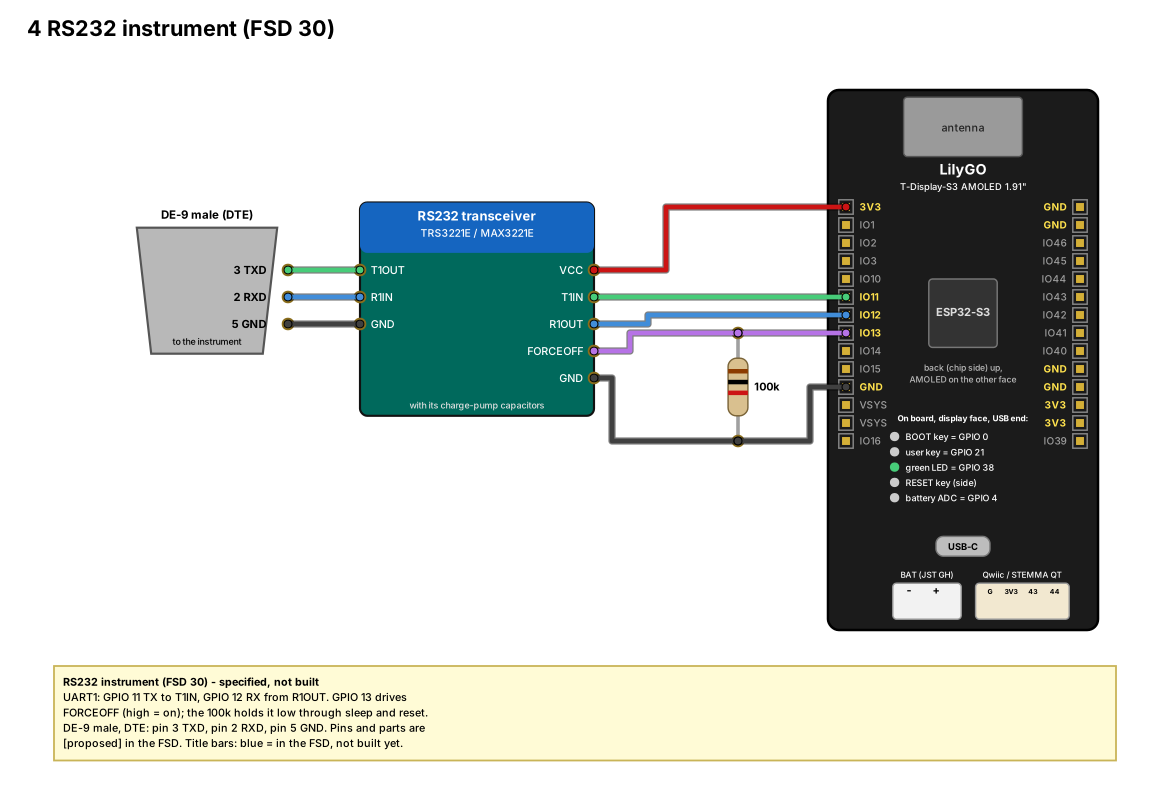
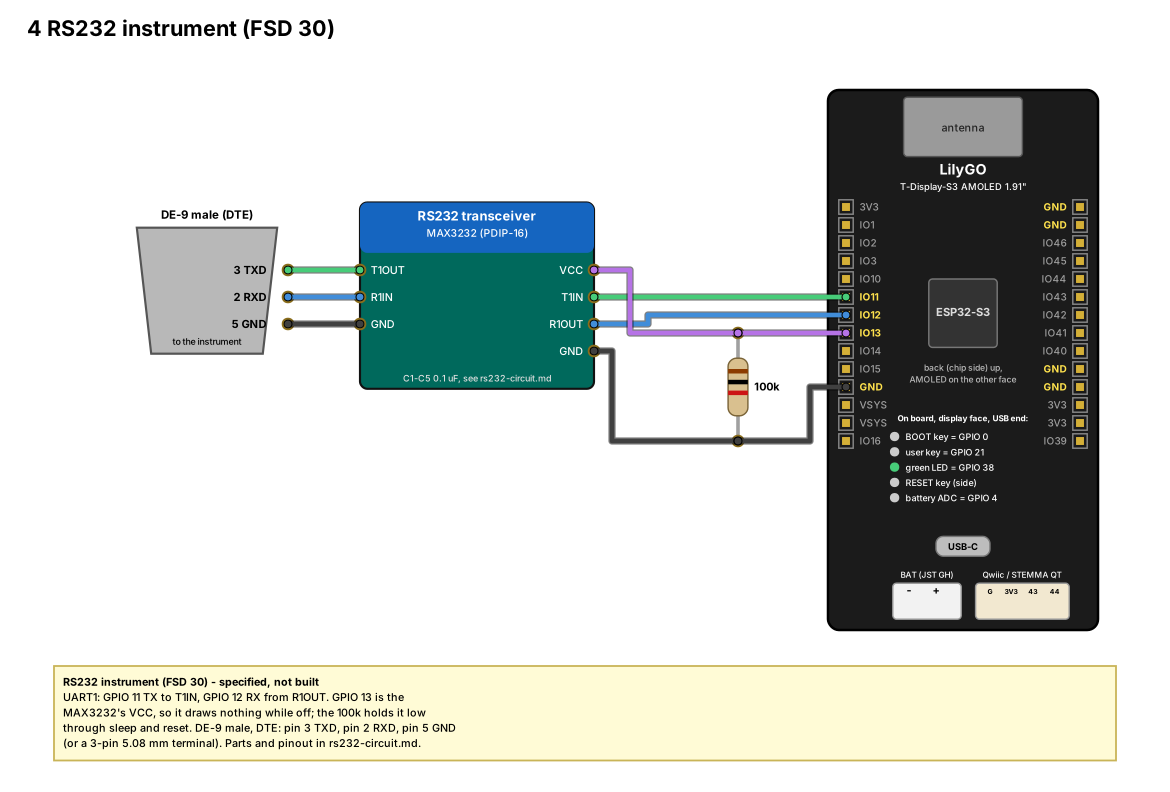
FSD 0.25.0: RS232 on a through-hole MAX3232 powered from GPIO 13
From Joe's acceptance of the RS232 revisit: the TRS3221E / MAX3221E with
FORCEOFF came only in SSOP, so the transceiver becomes a MAX3232 in a DIP
socket whose supply is GPIO 13, as the loop isolator's is GPIO 3. While
off it draws nothing and GPIO 11/12 float, so TX cannot back-power it
(C-30.2, superseding NFR-30.2). A panel-mount DE-9 or 5.08 mm terminal
replaces the PCB DE-9, whose 2.77 mm pitch misses perfboard. UART1 and
GPIO 11 - 13 are accepted; a 10 ms settle and an optional RTS line are
proposed. Wiring sheet 4 redrawn, rs232-circuit.md added.

Claude-Session: https://claude.ai/code/session_014onQRiyFzpHm7cF28pA6FG

diff --git a/docs/Method/project/wiring/make_wiring.py b/docs/Method/project/wiring/make_wiring.py
@@ -333,11 +333,11 @@ def build_parts(used):
                 pins=("K", "A")))
     add(two_pin("tds3a_fuse_h", "fuse", "1 A", False, "F", "Fuse"))
     # RS232 instrument, FSD section 30
-    add(module_part("tds3a_rs232_xcvr", ["RS232 transceiver", "TRS3221E / MAX3221E"],
+    add(module_part("tds3a_rs232_xcvr", ["RS232 transceiver", "MAX3232 (PDIP-16)"],
                     "specified", left=["T1OUT", "R1IN", "GND "],
-                    right=["VCC", "T1IN", "R1OUT", "FORCEOFF", "GND"], w=1300,
-                    color="#00695c", notes=["with its charge-pump capacitors"],
-                    desc="RS232 transceiver TRS3221E or MAX3221E"))
+                    right=["VCC", "T1IN", "R1OUT", "GND"], w=1300,
+                    color="#00695c", notes=["C1-C5 0.1 uF, see rs232-circuit.md"],
+                    desc="RS232 transceiver MAX3232 in a DIP socket"))
     add(de9_part())
     return P
 
@@ -839,11 +839,10 @@ def sheet_rs232(S):
     S.place("U12", "tds3a_rs232_xcvr", 2000, 1125)
     S.place("J1", "tds3a_de9_male", 700, 1125)
     S.place("R10", "tds3a_r100k_v", 4000, 1800)
-    S.wire((B, "3V3"), ("U12", "VCC"), "red", ("x", 3700))
     S.wire((B, "IO11"), ("U12", "T1IN"), "green")
     S.wire((B, "IO12"), ("U12", "R1OUT"), "blue", ("x", 3600))
     S.wire((B, "IO13"), ("R10", "1"), "purple")
-    S.wire(("R10", "1"), ("U12", "FORCEOFF"), "purple", ("x", 3500))
+    S.wire(("R10", "1"), ("U12", "VCC"), "purple", ("x", 3500))
     S.wire(("R10", "2"), ("U12", "GND"), "black", ("x", 3400))
     S.wire(("R10", "2"), (B, "GND"), "black", ("x", 4500))
     S.wire(("U12", "T1OUT"), ("J1", "3 TXD"), "green")
@@ -851,12 +850,11 @@ def sheet_rs232(S):
     S.wire(("U12", "GND "), ("J1", "5 GND"), "black")
     S.note(300, 3700, 5900, [
         "# RS232 instrument (FSD 30) - specified, not built",
-        "UART1: GPIO 11 TX to T1IN, GPIO 12 RX from R1OUT. GPIO 13 drives",
-        "FORCEOFF (high = on); the 100k holds it low through sleep and reset.",
-        "DE-9 male, DTE: pin 3 TXD, pin 2 RXD, pin 5 GND. Pins and parts are",
-        "[proposed] in the FSD. Title bars: blue = in the FSD, not built yet.",
+        "UART1: GPIO 11 TX to T1IN, GPIO 12 RX from R1OUT. GPIO 13 is the",
+        "MAX3232's VCC, so it draws nothing while off; the 100k holds it low",
+        "through sleep and reset. DE-9 male, DTE: pin 3 TXD, pin 2 RXD, pin 5 GND",
+        "(or a 3-pin 5.08 mm terminal). Parts and pinout in rs232-circuit.md.",
     ])
-
 
 SHEETS = [
     ("wiring-1-board-bme280-notecard", "1  Board, battery, BME280 and Notecard",
@@ -866,7 +864,7 @@ SHEETS = [
     ("wiring-3-water-probe", "3  Water pressure probe (proposed)",
      (10800, 8100), {"IO2", "GND", "IO44", "IO43", "3V3"}, sheet_water),
     ("wiring-4-rs232", "4  RS232 instrument (FSD 30)",
-     (6500, 4400), {"3V3", "IO11", "IO12", "IO13", "GND"}, sheet_rs232),
+     (6500, 4400), {"IO11", "IO12", "IO13", "GND"}, sheet_rs232),
 ]
 
 

diff --git a/docs/Functionality/TDisplay-S3-Webserver-FSD.md b/docs/Functionality/TDisplay-S3-Webserver-FSD.md
@@ -145,7 +145,7 @@ path: a failing display never stops the network side (FR-5.28).
 | Power and console | USB-C on the board, which is the ESP32-S3's native USB-Serial/JTAG | [derived from the board] |
 | Flash layout | Two 4 MB application slots, see C-10.6 | [user] |
 | 4-20 mA loop (optional) | One 2-wire transmitter on an isolated loop side: 24 V isolated supply from the battery/system rail behind a soft-start load switch, enabled by GPIO 3, a 30 mA loop current limit, 100 Ω shunt, ADS1115 at 0x49 (128 SPS) on an isolated 3.3 V LDO, behind an I2C isolator on its own bus (GPIO 15/16), the isolator's board side powered from GPIO 3 (§29) | [user] |
-| RS232 instrument (optional) | One instrument on a DE-9 (DTE): TRS3221E / MAX3221E transceiver, UART1 TX GPIO 11, RX GPIO 12, transceiver power GPIO 13 (§30) | [user]; pins and parts [proposed] |
+| RS232 instrument (optional) | One instrument on a DE-9 (DTE) or screw terminal: MAX3232 transceiver (PDIP-16) powered from GPIO 13, UART1 TX GPIO 11, RX GPIO 12 (§30); circuit in `docs/Method/project/rs232-circuit.md` | [user] |
 | Cellular (optional) | Blues Notecard Cell+WiFi NOTE-MBGLW on a Notecarrier-A, I2C 0x17 on GPIO 43/44 through Qwiic, its own LiPo for the modem (§33) | [user]; carrier, bus and power [proposed] |
 | Bench slot | SLOT1 (EN/BOOT GPIOs configured on the bench but not yet proven; reset over USB) | [derived from the testbench device list, 2026-10-29] |
 
@@ -366,13 +366,15 @@ testbench.
 - **Scope.** The optional RS232 input as add-on slot 1 of §29.2: poll or
   listen, one number from a text line, scaled, in readings, averages,
   history, page, JSON, line 6, tests and email.
-- **Deliverables.** §30, L37, L38; the shared `serial_port` component; a
-  loopback commissioning program for GPIO 11 – 13; a USB-RS232 adapter on
+- **Deliverables.** §30, L37, L38; the shared `serial_port` component; the
+  through-hole circuit of `rs232-circuit.md`; a loopback commissioning
+  program for GPIO 11 – 13; a USB-RS232 adapter on
   the testbench host for the bench tier (R-27).
 - **Exit criteria.** A scripted instrument on the bench adapter is read at
   every reading in `poll` and `listen`; silence, garbage and a long line log
-  L38 and stop nothing; with `rs` `off` RS232 leaves no trace; the value
-  appears on line 6, the page, `ext`, the CSV and the summary.
+  L38 and stop nothing; with `rs` `off` RS232 leaves no trace and the
+  sleep current is unchanged; the value appears on line 6, the page, `ext`,
+  the CSV and the summary.
 - **Dependencies.** §29.2 (add-on values), §23, §27, §28, §25, §26, the
   carrier PCB's RS232 block.
 
@@ -2659,17 +2661,21 @@ runs exactly as before. Built on the shared `serial_port` component (UART
 and transceiver power, with a pure line and number core); the composition
 root powers the port, reads it and routes the value.
 
-At each reading the board takes the transceiver out of shutdown, opens
-UART1, exchanges one poll or listens, closes the UART and shuts the
-transceiver down again.
+The transceiver is powered only while the port is read: at each reading the
+board sets GPIO 13 high, which is the transceiver's supply, waits for its
+charge pump, opens UART1, exchanges one poll or listens, closes the UART,
+lets GPIO 11 and 12 float, and sets GPIO 13 low. Every part is through-hole
+or panel-mount, so the circuit builds on perfboard.
 
 | Item | Value | Source |
 |------|-------|--------|
-| UART | UART1, no hardware flow control | [proposed] |
-| TX / RX | GPIO 11 (to the transceiver's T1IN) / GPIO 12 (from R1OUT); ADC2 pins, so no ESP32 ADC input is lost | [proposed] |
-| Transceiver power | GPIO 13 to FORCEOFF, active high, pulled low (100 kΩ) through sleep and reset | [proposed] |
-| Transceiver | TI TRS3221E or ADI MAX3221E: one driver, one receiver, 3.3 V, ±15 kV ESD, about 1 µA in shutdown | [proposed] |
-| Connector | DE-9 male, DTE: pin 2 RXD, pin 3 TXD, pin 5 GND; a 3-pin 3.5 mm terminal footprint beside it | [proposed] |
+| UART | UART1, no hardware flow control | [user] |
+| TX / RX | GPIO 11 (to the transceiver's T1IN) / GPIO 12 (from R1OUT); ADC2 pins, so no ESP32 ADC input is lost | [user] |
+| Transceiver power | GPIO 13 is the transceiver's VCC, pulled low (100 kΩ) through sleep and reset; the transceiver draws 0.3 mA typical, about 3 – 6 mA driving an instrument | [user] |
+| Charge-pump settle | **10 ms** [proposed] after GPIO 13 goes high, before UART1 sends or listens | [proposed] |
+| Transceiver | Analog Devices MAX3232ECPE+ in a DIP socket (PDIP-16, 3.0 – 5.5 V, two drivers and two receivers, ±15 kV ESD); MAX3232EPE+, MAX3232EEPE+ or MAX3232CPE+ fit the same socket | [user] |
+| RTS | Optional: the second driver's input tied to GND holds DE-9 pin 7 (RTS) asserted while the port is powered, for instruments that need it | [proposed] |
+| Connector | DE-9 male, panel mount with solder cups, DTE: pin 2 RXD, pin 3 TXD, pin 5 GND; or a 3-pin 5.08 mm screw terminal (TX, RX, GND) | [user] |
 
 Settings, in the portal form (§13.2) and a BLE `settings` write (§26):
 
@@ -2696,11 +2702,13 @@ line, so `ST,GS,+0012.34 g` gives 12.34 as field 1.
 Reading:
 
 - **FR-30.1** [Must] [user] With `rs` `off` the device shall keep GPIO 13
-  low, never install UART1, and behave as without §30.
+  low, never install UART1, leave GPIO 11 and 12 floating without pulls,
+  and behave as without §30.
 - **FR-30.2** [Must] [user] With `rs` not `off`, at each reading (FR-23.1,
   FR-23.3, §28 tests) the device shall, after the BME280 reading, set GPIO 13
-  high, open UART1 at `rs_baud` and `rs_format`, take one value by FR-30.3
-  or FR-30.4, then close UART1 and set GPIO 13 low.
+  high, wait the charge-pump settle of §30.1, open UART1 at `rs_baud` and
+  `rs_format`, take one value by FR-30.3 or FR-30.4, then close UART1, leave
+  GPIO 11 and 12 floating without pulls, and set GPIO 13 low.
 - **FR-30.3** [Must] [user] With `rs` `poll` the device shall discard any
   input already received, send `rs_cmd`, and take the first whole line that
   arrives within `rs_timeout_ms` of the command.
@@ -2716,10 +2724,13 @@ Reading:
 - **FR-30.7** [Must] [derived] Each RS232 value shall be logged as L37; in
   ONLINE it reaches the UDP log by FR-16.1.
 - **NFR-30.1** [Must] [user] With `rs` not `off`, GPIO 13 shall be high at
-  most `rs_timeout_ms` + **50 ms** [proposed] per reading.
-- **NFR-30.2** [Must] [user] With `rs` `off`, and while the device sleeps,
-  the RS232 hardware shall add at most **10 µA** [proposed] to the supply
-  current.
+  most `rs_timeout_ms` + **50 ms** [proposed] per reading, the 10 ms settle
+  included.
+- **C-30.2** [Must] [user] With GPIO 13 low, the RS232 hardware shall draw
+  no current from the board (the transceiver unpowered, GPIO 11 and 12
+  floating without pulls, so TX cannot power the transceiver through its
+  input); the sleep current shall be unchanged within 10 µA with the
+  hardware fitted.
 
 Recording and showing:
 
@@ -2754,8 +2765,8 @@ Settings:
   (BLE); valid values are stored in NVS with the other settings (T3, T14),
   reported by the `settings` read (FR-26.9) and erased by a factory reset
   (T10). Other fields are checked only with `rs` not `off`.
-- **C-30.1** [Must] [proposed] UART1 on TX GPIO 11, RX GPIO 12, and the
-  transceiver's FORCEOFF on GPIO 13, as in §30.1; the pins are confirmed by
+- **C-30.1** [Must] [user] UART1 on TX GPIO 11, RX GPIO 12, and the
+  transceiver's supply on GPIO 13, as in §30.1; the pins are confirmed by
   a loopback commissioning program before the first build that uses them.
 
 ### 30.3 Verification contracts
@@ -2770,8 +2781,8 @@ Settings:
 | FR-30.12, FR-29.14 (core) | Verdicts: `quick` with RS232 off; on with 12 values; on with 11 values; RS232 and loop both on | `result=pass` without an RS232 field; `… rs232=12/12`; `result=fail … rs232=11/12`; the RS232 suffix before the loop's | An RS232 field or effect while off | host |
 | FR-30.11 (core) | Summary with 3 RS232 values and one reading without | The RS232 line with n = 3, before the loop line; the averages column empty where none | A NaN printed | host |
 | C-30.1, FR-30.2 | Commissioning program: GPIO 11 jumpered to GPIO 12 at 3.3 V (no transceiver); send and read 64 bytes at every baud and format of §30.1 | Every byte back; GPIO 13 toggles as commanded | A lost byte; a pin that does not move | target |
-| FR-30.1, NFR-30.2 | Shipped build with `rs` `off`; sleep | No UART1 install in the log; GPIO 13 low; the sleep current unchanged within 10 µA | GPIO 13 high; UART1 installed | target |
-| FR-30.2, FR-30.3, FR-30.7, NFR-30.1 | Transceiver wired; the testbench host's USB-RS232 adapter on the DE-9 runs a scripted instrument answering `R\r` with `+0023.45 C\r`; `rs=poll&rs_cmd=R%5Cr`; reset over USB | L37 `rs232 rs232=23.450`; the script saw one `R\r` per reading; GPIO 13 high at most 1050 ms | No L37; a second command in one reading | bench |
+| FR-30.1, C-30.2 | RS232 hardware fitted, shipped build with `rs` `off`; then `poll` with nothing on the DE-9; sleep each time | No UART1 install in the log; GPIO 13 low; transceiver VCC below 0.3 V while off and asleep (a meter on pin 16); the sleep current with and without the hardware equal within 10 µA | GPIO 13 high while off; VCC raised through GPIO 11 | bench (operator) |
+| FR-30.2, FR-30.3, FR-30.7, NFR-30.1 | Transceiver wired (`rs232-circuit.md`); the testbench host's USB-RS232 adapter on the DE-9 runs a scripted instrument answering `R\r` with `+0023.45 C\r`; `rs=poll&rs_cmd=R%5Cr`; reset over USB | L37 `rs232 rs232=23.450`; the script saw one `R\r` per reading; GPIO 13 high at most 1050 ms | No L37; a second command in one reading | bench |
 | FR-30.4 | As above, the script sending `+0023.45 C\r` every 200 ms; `rs=listen` | L37 with the last line's value | A half line | bench |
 | FR-30.6 | As above, the script silent, then answering `ERR\r`, then 200 bytes without CR, then unplugged | L38 `timeout`, `nonum line=ERR`, `long`, `timeout`; the window and sleep as usual; each BME280 reading still in the history | A restart; a value kept | bench |
 | FR-30.12 | Double press for `quick`, first with `rs` `off` and nothing on the DE-9, then `poll` with the script silent | `result=pass` and no L37/L38; then `result=fail … rs232=0/12` with all 12 readings in the history | An RS232 line while off; a reading missing from the history | bench |
@@ -3385,7 +3396,8 @@ Build-time constants:
 | Loop bus | I2C controller 1, SDA GPIO 15, SCL GPIO 16, 100 kHz; isolator VCC1 from GPIO 3 | [user] |
 | Loop fault limits | below 3.6 mA or above 21.0 mA (NAMUR NE43) | [user] |
 | Loop accuracy | ±0.25 % of span | [user] |
-| RS232 port | UART1, TX GPIO 11, RX GPIO 12, transceiver FORCEOFF GPIO 13 / TRS3221E or MAX3221E / DE-9 male (DTE) | [proposed] |
+| RS232 port | UART1, TX GPIO 11, RX GPIO 12, transceiver supply GPIO 13 / MAX3232 (PDIP-16) / DE-9 male panel mount (DTE) or 3-pin 5.08 mm terminal | [user] |
+| RS232 charge-pump settle | 10 ms after GPIO 13 goes high | [proposed] |
 | RS232 line / timeout / port-on limit | ≤ 128 bytes, CR, LF or CRLF / `rs_timeout_ms` 100 – 5000 ms, default 1000 / `rs_timeout_ms` + 50 ms | [proposed] |
 | Alert hysteresis (T / RH / P) | 1.0 °F / 2 % / 1.00 mbar | [user] |
 | Alert budgets | ONLINE within 15 s; all alerts of a run within 10 s; asleep within 50 s (60 s with a summary) | [user] |
@@ -3461,13 +3473,14 @@ the bench gains the capability.
 | FR-9.2 | The firmware never initialises the BLE controller | FR-26.18 (only inside a setup window) |
 | FR-25.2 | Settings change only by a factory reset and a new provisioning | FR-25.16 (or by a BLE write in a key window) |
 | FR-15.2 – FR-15.4, FR-15.6, FR-15.7 | OTA by pushed image body (411, 413, 400, 200 answers; broken upload) | FR-15.8 – FR-15.11 (OTA by URL pull, matching the testbench's OTA flow) |
+| NFR-30.2 | The RS232 hardware adds at most 10 µA with the port off or asleep (a transceiver in shutdown) | C-30.2 (no current while off: the transceiver unpowered) |
 
 FR-6.1 – FR-6.4 and FR-6.7 keep their IDs and meaning; only the name of the state
 they apply in changed (SHOWING → LCD_OK, §5.3's display region).
 
 ```yaml
 document_status: draft
-fsd_version: 0.24.0
+fsd_version: 0.25.0
 repository: https://github.com/solchjg/tdisplay-s3-amoled
 baseline_commit: (the commit introducing this version)
 applicable_firmware_version: none yet
@@ -3523,14 +3536,14 @@ change_history:
   - "0.22.3 2026-11-02 from the user's clarifications: FR-24.13 (user) supersedes FR-24.12, line 5 of the hold reads `Press flashing LED to start <mm>:<ss>`; FR-26.23 (proposed) supersedes FR-26.14, line 5 says `BLE setup on` in the provisioning window, where BLE starts by itself and the user key opens no window"
   - "0.22.2 2026-11-02 BLE setup from the user's bench report (pairing failed after an erase, the BLE page unlike the WiFi form): FR-26.21 the page draws the portal form (user), FR-26.19 rules gain step, option labels, extras, placeholder, inputmode, unit, section and intro, FR-26.22 a static random address replaced while no bond is held (proposed), FR-26.18 names it"
   - "0.22.1 2026-11-02 the ntfy test server is `http://192.168.2.231` (the user's correction; `192.168.2.37:8080` is ThingsBoard): §31.2 example, Phase 13 exit criteria, R-28 (the bench AP reaches it, seen at the bench check), R-33, the FR-31.8 test row"
-superseded_requirements: [FR-5.1, FR-5.2, FR-5.3, FR-5.4, FR-5.5, FR-5.6, FR-5.7, FR-5.8, FR-5.9, FR-5.10, FR-7.1, FR-7.2, FR-7.3, FR-7.4, FR-9.1, C-10.4, FR-15.2, FR-15.3, FR-15.4, FR-15.6, FR-15.7, FR-14.1, FR-14.2, FR-5.22, FR-6.5, FR-6.6, FR-15.5, FR-18.1, FR-7.15, FR-6.9, FR-6.10, FR-6.11, FR-7.11, FR-23.6, FR-23.11, FR-23.8, FR-24.4, FR-21.10, FR-24.5, FR-24.10, FR-18.2, FR-25.4, FR-25.7, FR-23.2, FR-9.2, FR-25.2, FR-7.33, C-10.6, FR-23.14, FR-6.2, FR-6.12, FR-23.13, FR-27.2, C-10.9, FR-24.12, FR-26.14]
+  - "0.25.0 2026-11-02 from the user's acceptance of the RS232 revisit (through-hole and in-stock parts, nothing drawn while off, as the loop's own bus): §30.1 the transceiver is a MAX3232 in a DIP socket powered from GPIO 13 instead of a TRS3221E / MAX3221E with FORCEOFF, GPIO 11/12 float while off, a 10 ms settle and an optional RTS (proposed), a panel-mount DE-9 or 5.08 mm terminal; FR-30.1, FR-30.2 reworded; NFR-30.2 replaced by C-30.2 (no current while off); UART1 and GPIO 11 – 13 accepted (C-30.1); §2.2, Phase 12, Appendix A updated; circuit in rs232-circuit.md"
+superseded_requirements: [FR-5.1, FR-5.2, FR-5.3, FR-5.4, FR-5.5, FR-5.6, FR-5.7, FR-5.8, FR-5.9, FR-5.10, FR-7.1, FR-7.2, FR-7.3, FR-7.4, FR-9.1, C-10.4, FR-15.2, FR-15.3, FR-15.4, FR-15.6, FR-15.7, FR-14.1, FR-14.2, FR-5.22, FR-6.5, FR-6.6, FR-15.5, FR-18.1, FR-7.15, FR-6.9, FR-6.10, FR-6.11, FR-7.11, FR-23.6, FR-23.11, FR-23.8, FR-24.4, FR-21.10, FR-24.5, FR-24.10, FR-18.2, FR-25.4, FR-25.7, FR-23.2, FR-9.2, FR-25.2, FR-7.33, C-10.6, FR-23.14, FR-6.2, FR-6.12, FR-23.13, FR-27.2, C-10.9, FR-24.12, FR-26.14, NFR-30.2]
 open_decisions:
   - "FR-26.23: line 5 `BLE setup on` in the provisioning window"
   - "FR-26.22: a static random BLE address, replaced whenever no bond is held (phones keep a stale entry for the old one)"
-  - "§30.1, C-30.1: UART1 on TX GPIO 11, RX GPIO 12, transceiver FORCEOFF GPIO 13 (to confirm by loopback commissioning)"
-  - "§30.1: TRS3221E or MAX3221E transceiver, DE-9 male (DTE) with a 3-pin terminal footprint"
+  - "§30.1: a 10 ms charge-pump settle; RTS held asserted by the second driver (optional)"
   - "§30.1: rs_cmd 1 – 32 bytes, rs_timeout_ms 100 – 5000 (default 1000), rs_field 1 – 8, rs_dec 0 – 4, a 128-byte line"
-  - "NFR-30.1, NFR-30.2: port on at most rs_timeout_ms + 50 ms; at most 10 µA with the port off or asleep"
+  - "NFR-30.1: port on at most rs_timeout_ms + 50 ms"
   - "§33.3: cell_mail default off (email over cellular needs the user's mail service and route first)"
   - "§33.2: Notecarrier-A, I2C 0x17 on GPIO 43/44 through Qwiic, the Notecarrier's own LiPo for modem peaks, ATTN not connected"
   - "§33.3: uplink default wifi, nh_product 1 – 64 bytes, cell_every 10 – 1440 min (default 60)"

diff --git a/docs/Method/project/rs232-circuit.md b/docs/Method/project/rs232-circuit.md
@@ -1,0 +1,82 @@
+# RS232 instrument circuit
+
+This is the hardware for the RS232 instrument input of FSD §30. It connects one
+instrument to UART1 through a MAX3232 transceiver. The firmware for it is not
+built yet, and neither is this circuit. Every part is through-hole or panel-mount,
+so it builds on a breadboard or perfboard. Fritzing
+[sheet 4](wiring/wiring-4-rs232.png) shows the wiring. The figures come from the
+MAX3232E datasheet; check them against the current one.
+
+GPIO 13 is the transceiver's supply. While the port is off, the chip is unpowered
+and GPIO 11 and 12 float, so the circuit draws nothing from the board (C-30.2).
+The loop isolator is powered from GPIO 3 in the same way.
+
+## Parts
+
+| Ref | Function (FSD §30.1) | Part | Notes |
+|-----|----------------------|------|-------|
+| U12 | RS232 transceiver | Analog Devices MAX3232ECPE+, PDIP-16 (3.0 – 5.5 V, two drivers and two receivers, ±15 kV ESD on the RS232 pins) | MAX3232EPE+, MAX3232EEPE+ (−40 °C) and MAX3232CPE+ (±2 kV ESD only) fit the same socket |
+| X1 | Socket | 16-pin DIP socket, 0.3" | |
+| C1 – C4 | Charge pump | 0.1 µF ceramic, 50 V, radial 0.1" | The datasheet value for VCC 3.0 – 3.6 V |
+| C5 | Decoupling | 0.1 µF ceramic at pin 16 | No bulk capacitor, so GPIO 13 sees no large inrush |
+| R10 | Off through sleep and reset | 100 kΩ, GPIO 13 to GND | |
+| J1 | Instrument connector | DE-9 male, panel mount, solder cups, wired with short leads | A right-angle PCB DE-9 has its pins at 2.77 mm, which does not fit 0.1" perfboard |
+| J2 | Bare-wire alternative | 3-pin screw terminal, 5.08 mm (TX, RX, GND) | Same pitch as the loop's J1 |
+
+## Connections
+
+| MAX3232 pin | To | Purpose |
+|-------------|----|---------|
+| 1 C1+, 3 C1− | C1 | Charge pump |
+| 4 C2+, 5 C2− | C2 | Charge pump |
+| 2 V+ | C3 to GND | About +5.5 V |
+| 6 V− | C4 to GND | About −5.5 V |
+| 16 VCC | GPIO 13; C5 to GND; R10 to GND | Supply, switched by the firmware |
+| 15 GND | Board GND, J1 pin 5, J2 GND | |
+| 11 T1IN | GPIO 11 (UART1 TX) | |
+| 14 T1OUT | J1 pin 3 (TXD), J2 TX | To the instrument's RXD |
+| 13 R1IN | J1 pin 2 (RXD), J2 RX | From the instrument's TXD |
+| 12 R1OUT | GPIO 12 (UART1 RX) | |
+| 10 T2IN | GND, or 3V3 when RTS is not wired | Optional RTS: T2IN low makes T2OUT high |
+| 7 T2OUT | J1 pin 7 (RTS), optional | Held asserted while the port is powered, for instruments that need it |
+| 8 R2IN, 9 R2OUT | Open | R2IN has an internal 5 kΩ pull-down |
+
+J1 is wired as a DTE, like a PC: a straight cable goes to a DCE instrument and a
+null-modem cable to a DTE one.
+
+## Budgets
+
+| Budget | Figure | Note |
+|--------|--------|------|
+| GPIO 13 load, idle | 0.3 mA typical, 1 mA max (MAX3232E with no RS232 load) | |
+| GPIO 13 load, driving | About 3 mA with T1OUT into a 3 – 7 kΩ instrument input, about 6 mA with RTS also driven | An estimate from the datasheet's charge-pump doubler, not measured |
+| VCC at the chip | At least about 3.1 V at 6 mA | Above the MAX3232's 3.0 V minimum; measure it on the bench (check 3) |
+| Settle after power-on | 10 ms [proposed] before the first byte | Lets V+ and V− reach about ±5.5 V |
+| Port on per reading | `rs_timeout_ms` + 50 ms at most (NFR-30.1) | 1.05 s at the default timeout |
+| Sleep | None from the RS232 hardware | Chip unpowered, GPIO 11/12 floating (C-30.2) |
+
+## Reading
+
+What the RS232 component does after each BME280 reading, with `rs` not `off`
+(FR-30.2):
+
+1. Set GPIO 13 high, which powers the MAX3232.
+2. Wait 10 ms.
+3. Install UART1 on GPIO 11/12 at `rs_baud` and `rs_format`, then poll or listen
+   (FR-30.3, FR-30.4).
+4. Remove UART1 and leave GPIO 11 and 12 as inputs without pulls.
+5. Set GPIO 13 low.
+
+## To check before wiring
+
+1. **Header pins.** LilyGO's picture puts GPIO 11, 12 and 13 on the left header,
+   between GPIO 10 and 14. The loopback commissioning program of C-30.1 proves
+   them first, with GPIO 11 jumpered to GPIO 12 and no transceiver.
+2. **No back-powering.** With the port off and the chip fitted, pin 16 should
+   read below 0.3 V. If it reads higher, TX is not floating.
+3. **Supply under load.** With an instrument (or a 3 kΩ load from T1OUT to GND)
+   and the port on, pin 16 should read at least 3.0 V. If it does not, move U12's
+   supply to 3V3 through a load switch, or fit the MAX3222ECPN+ (PDIP-18), whose
+   SHDN pin GPIO 13 can drive (about 1 µA in shutdown).
+4. **Levels.** With the port on and idle, J1 pin 3 should sit at about −5.5 V.
+   During a poll it should swing to about +5.5 V.

diff --git a/docs/Method/project/wiring/wiring.md b/docs/Method/project/wiring/wiring.md
@@ -29,7 +29,7 @@ FSD but not built yet, and orange means proposed and not in the FSD.
 | [1 Board, battery, BME280, Notecard](wiring-1-board-bme280-notecard.png) ([.fzz](wiring-1-board-bme280-notecard.fzz)) | BME280 on main (FSD §23); Notecarrier-A specified (§33) | GPIO 43 SDA, GPIO 44 SCL, 3V3, GND, BAT JST, Qwiic |
 | [2 4-20 mA loop input](wiring-2-loop-4-20ma.png) ([.fzz](wiring-2-loop-4-20ma.fzz)) | On main (FSD §29), circuit in [loop-circuit.md](../loop-circuit.md) | GPIO 3 supply enable and isolator power, VSYS, GPIO 15/16 loop bus, GND |
 | [3 Water pressure probe](wiring-3-water-probe.png) ([.fzz](wiring-3-water-probe.fzz)) | Proposed ([water-probe-circuit.md](../water-probe-circuit.md)) | GPIO 2 boost enable, BAT+ tap, GPIO 43/44, 3V3, GND |
-| [4 RS232 instrument](wiring-4-rs232.png) ([.fzz](wiring-4-rs232.fzz)) | Specified (FSD §30), pins and parts proposed | GPIO 11 TX, GPIO 12 RX, GPIO 13 FORCEOFF, 3V3, GND |
+| [4 RS232 instrument](wiring-4-rs232.png) ([.fzz](wiring-4-rs232.fzz)) | Specified (FSD §30), circuit in [rs232-circuit.md](../rs232-circuit.md) | GPIO 11 TX, GPIO 12 RX, GPIO 13 transceiver supply, GND |
 
 The I2C devices on the board's bus share GPIO 43/44: the BME280 at 0x76, the
 water ADS1115 at 0x48 and the Notecard at 0x17. The loop ADS1115 (0x49) has its
@@ -64,6 +64,7 @@ battery connector is a JST GH 1.25 mm.
    [water-probe-circuit.md](../water-probe-circuit.md#to-check-before-wiring)
    apply. LilyGO's picture puts GPIO 2 on the left header, third pin from the
    top.
-4. **RS232 transceiver.** A TRS3221E/MAX3221E needs its four charge-pump
-   capacitors (on a breakout they are usually fitted). FORCEON is not in the
-   FSD. Tie it high so that FORCEOFF alone decides whether the driver is on.
+4. **RS232 transceiver.** The MAX3232 takes its supply from GPIO 13, so it
+   draws nothing while the port is off. Its charge-pump and decoupling
+   capacitors, the optional RTS line and the checks before wiring are in
+   [rs232-circuit.md](../rs232-circuit.md).

diff --git a/OVERVIEW.md b/OVERVIEW.md
@@ -67,8 +67,10 @@ These are stacked: #21 ← #22 ← #23 ← #26.
   own, and one that is off leaves no trace. Open point: should a test fail when an
   enabled add-on gives no value (drafted as yes).
 - **RS232 instrument input** ([#23](https://github.com/solchjg/tdisplay-s3-amoled/pull/23), FSD §30):
-  read an instrument over RS232. Proposed values to approve: GPIO 11/12/13, a
-  TRS3221E or MAX3221E transceiver, a DE-9 connector.
+  read an instrument over RS232 through a through-hole MAX3232 powered from
+  GPIO 13 (UART1 on GPIO 11/12), a panel-mount DE-9 or a screw terminal; circuit
+  in `docs/Method/project/rs232-circuit.md`. Still proposed: the field limits,
+  a 10 ms settle and the optional RTS line.
 - **ntfy push alerts** ([#26](https://github.com/solchjg/tdisplay-s3-amoled/pull/26), FSD §31):
   alerts when a reading crosses a limit and returns, when the sensor, an add-on or
   the history fails or recovers, and when a test ends. Test server
